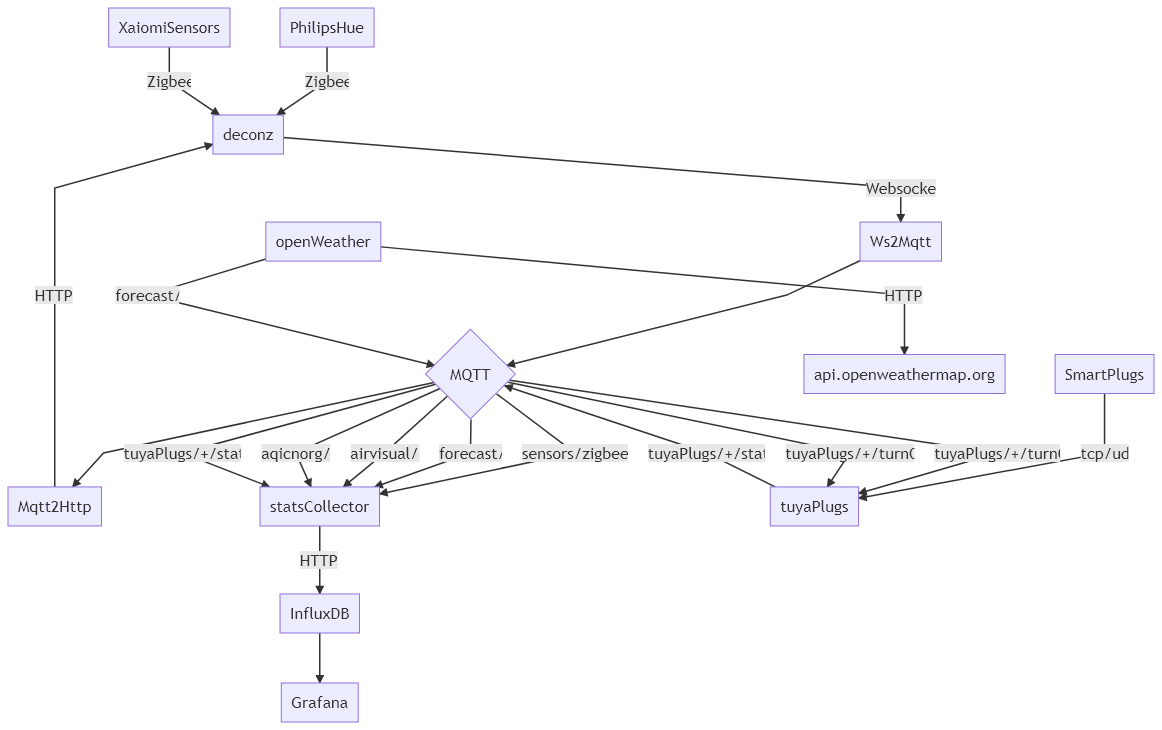
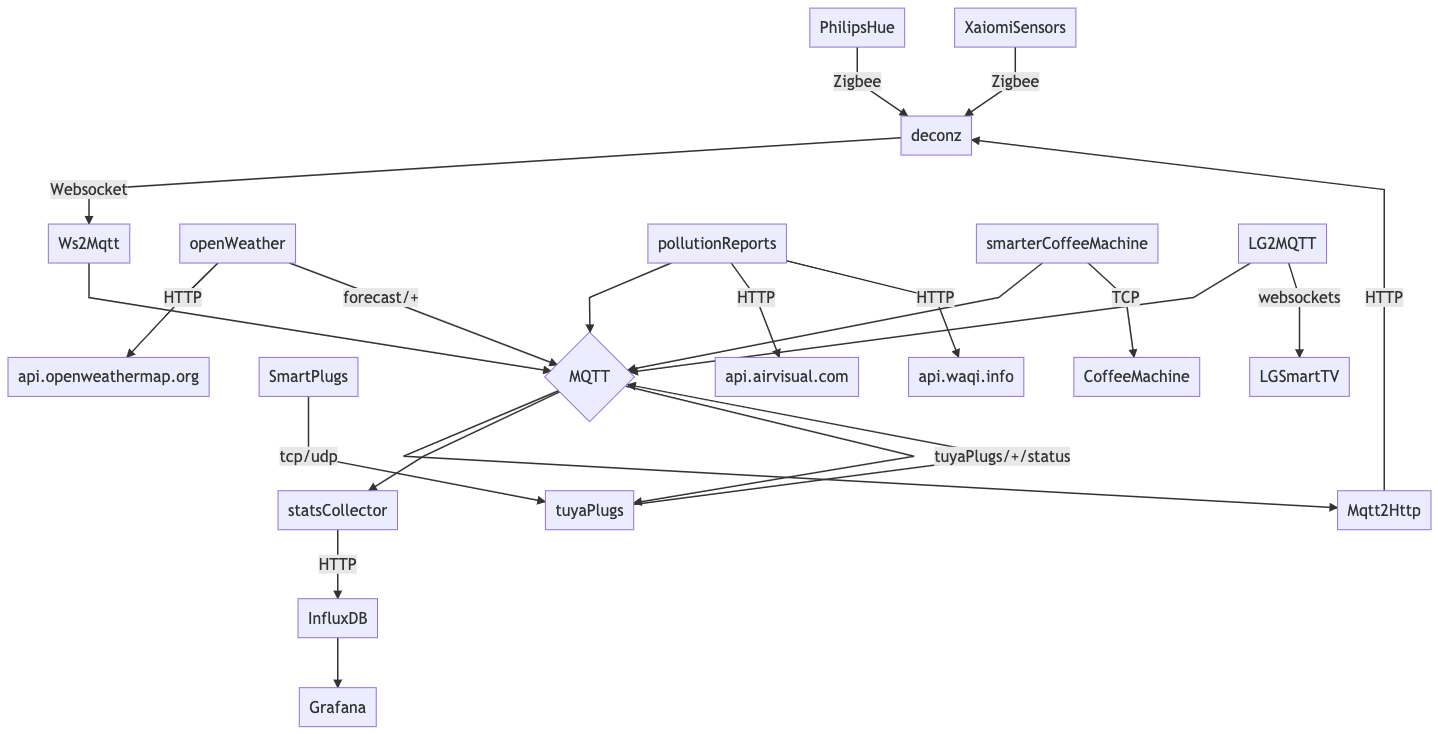
docs: update readme

diff --git a/README.md b/README.md
@@ -2,6 +2,9 @@
 
 Monorepo which contains my home automation services. Each service defined in this repo runs in a docker container on my Raspberry Pi 4. I'm using MQTT to communicate between services and storage data. Check README files inside packages to know more about services in this repo
 
+![flow](https://raw.githubusercontent.com/mariusz-kabala/home-automation/master/docs/flow.png 'Flow')
+_todo: create a more readable graph :)_
+
 ## REQUIREMENTS
 
 This repo uses yarn workspaces, requires `yarn 1.21+` and `nodejs v12`
